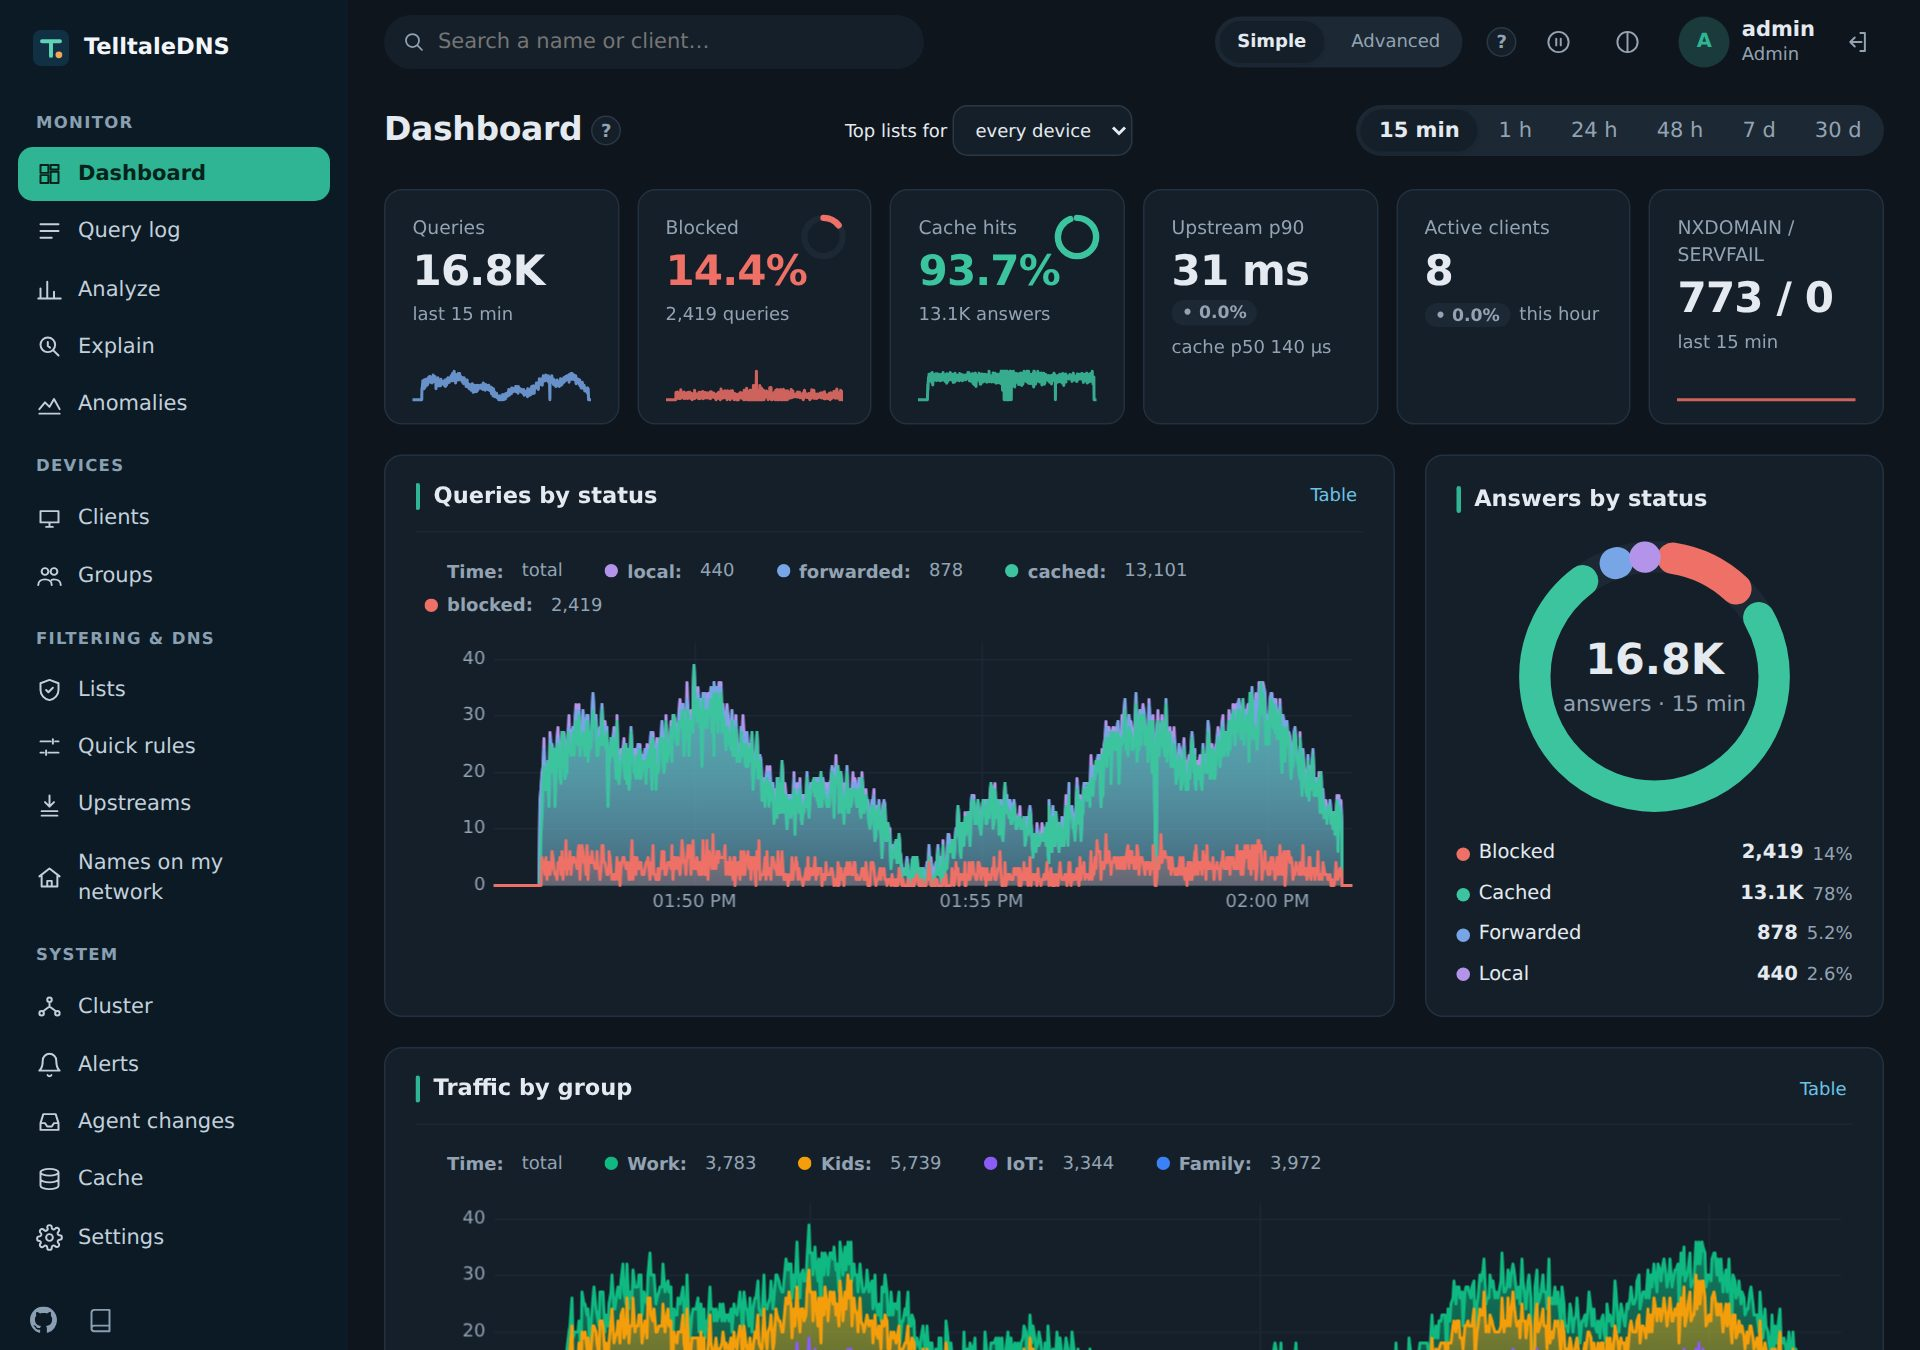
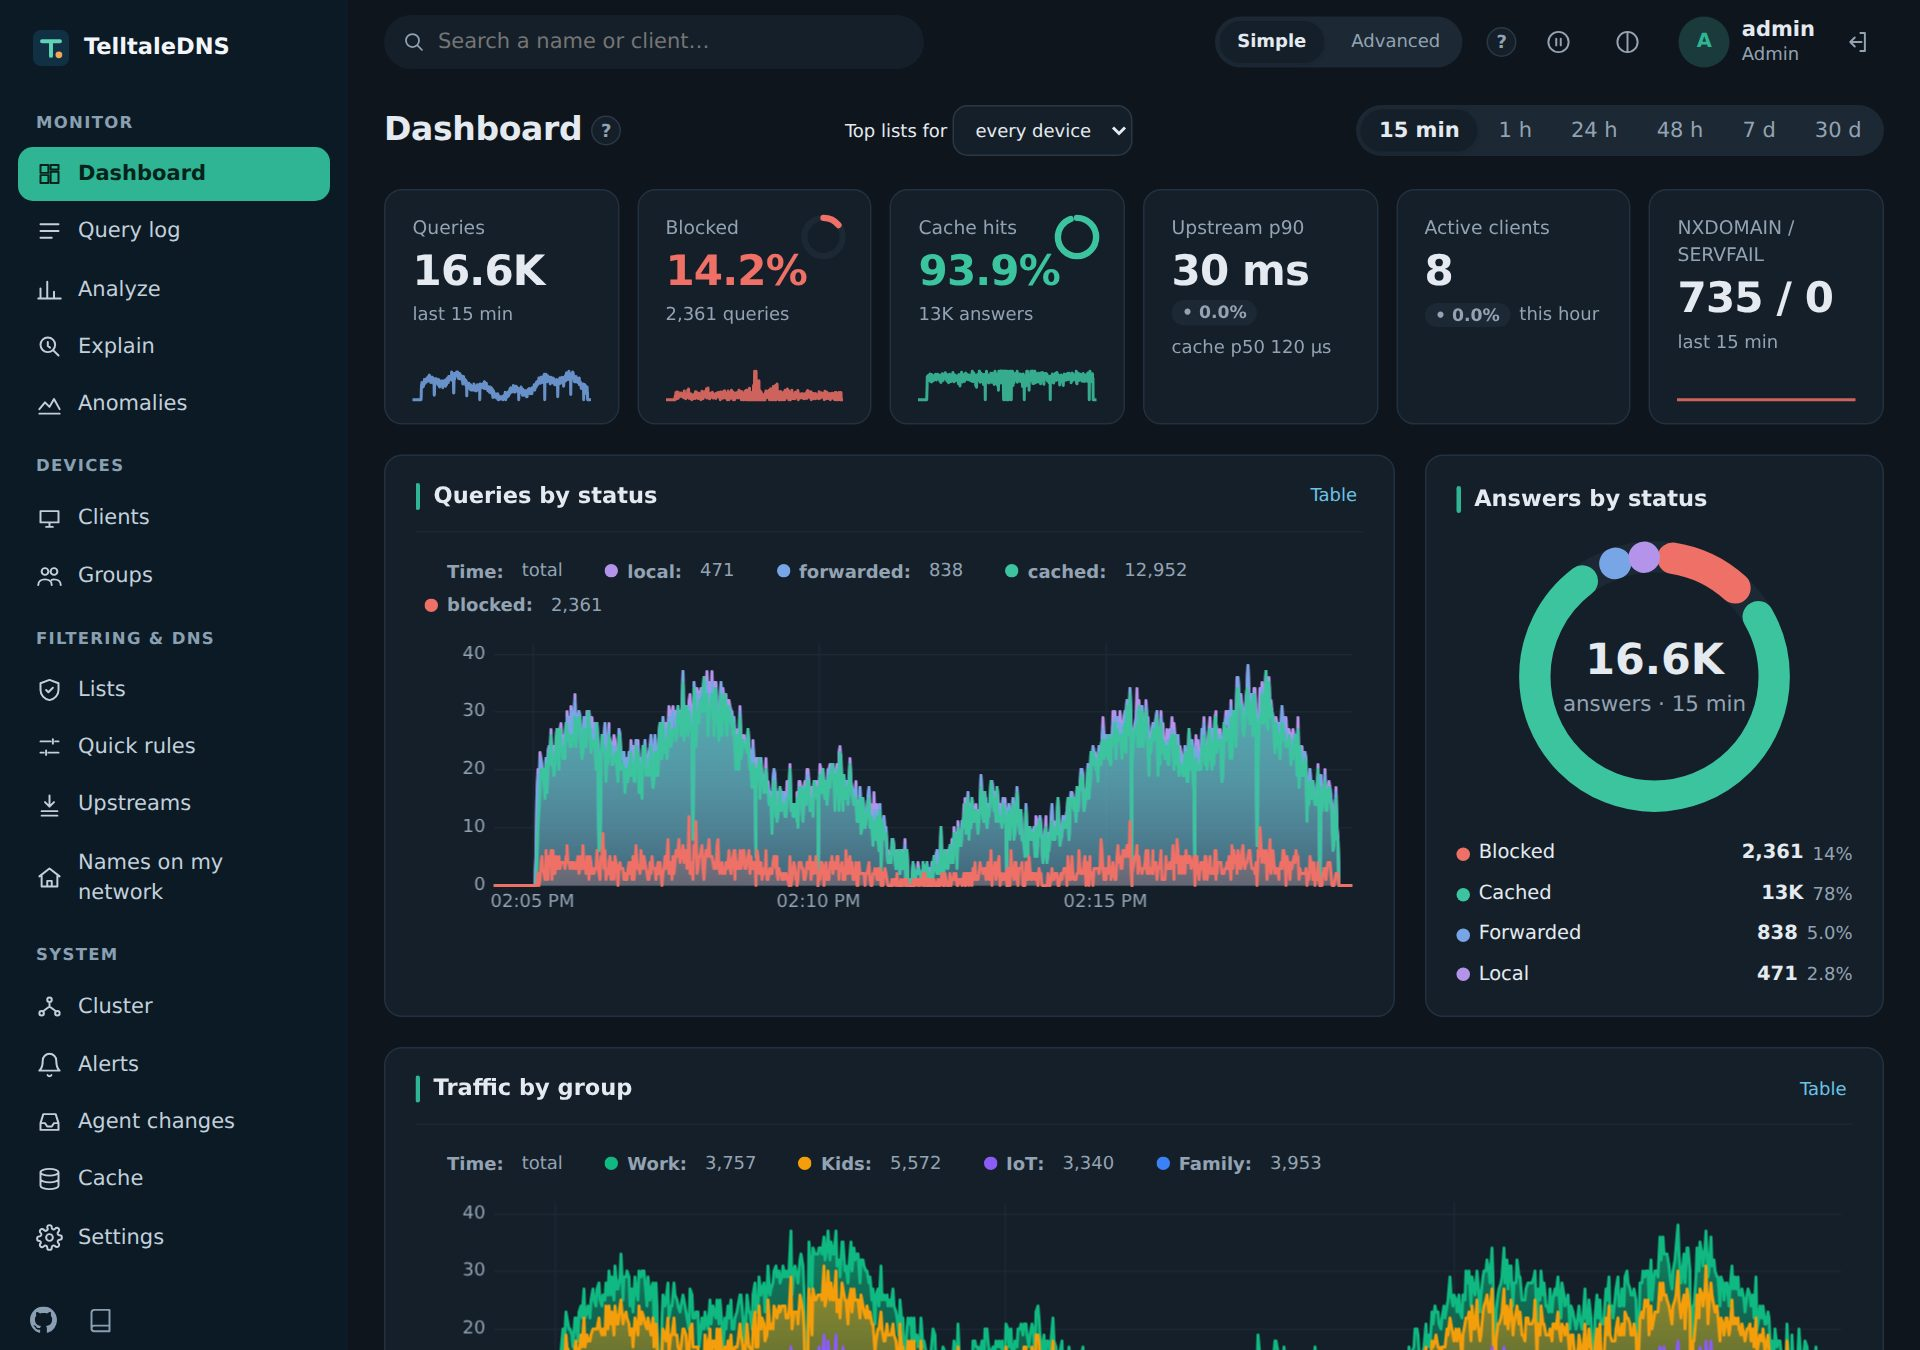
docs(site): dashboard screenshots from a made-up demo network [DOC-002]
- ui/tests/demo: two stub upstreams, a demo config with invented devices
  and groups on loopback addresses, synthetic traffic, and a Playwright
  spec. run.sh writes the README's and the site's dashboard pictures, so
  no real network ever appears in them.
- The e2e screenshot test no longer writes the site's dashboard shots
  (its minutes-old, one-client server made the dashboard look empty).
- The site's dashboard captions say it's a demo network; ui/README.md
  explains the demo and where SHOTS=1 really writes its pictures.

Claude-Session: https://claude.ai/code/session_01VwxbSCqhHCSxjCwuuUqexg

diff --git a/ui/tests/demo/shots.spec.ts b/ui/tests/demo/shots.spec.ts
@@ -1,0 +1,45 @@
+// REQ: DOC-002 — dashboard screenshots for the README and the site, taken on the made-up network
+// of demo.toml after run.sh has sent it synthetic traffic. Not part of the e2e suite.
+import { test, type Browser } from '@playwright/test';
+import { resolve } from 'node:path';
+
+const repo = resolve(import.meta.dirname, '../../..');
+
+async function capture(browser: Browser, theme: 'light' | 'dark', width: number, height: number, scale: number) {
+  const context = await browser.newContext({
+    baseURL: 'http://127.0.0.1:28053',
+    colorScheme: theme,
+    viewport: { width, height },
+    deviceScaleFactor: scale,
+  });
+  const page = await context.newPage();
+  // The demo's devices are on loopback, which reads as masked client IPs (OPS-003): keep that
+  // banner out of the pictures.
+  await page.route('**/api/v1/system/info', async (route) => {
+    const res = await route.fetch();
+    const info = await res.json();
+    delete info.clientIpsMasked;
+    await route.fulfill({ response: res, json: info });
+  });
+  await page.goto('/');
+  await page.getByLabel('Username', { exact: true }).fill('admin');
+  await page.getByLabel('Password', { exact: true }).fill('correct horse battery');
+  await page.getByRole('button', { name: 'Sign in' }).click();
+  await page.getByRole('heading', { name: 'Dashboard' }).waitFor();
+  await page.getByRole('button', { name: '15 min' }).click();
+  await page.waitForTimeout(3000);
+  return { page, context };
+}
+
+for (const theme of ['light', 'dark'] as const) {
+  test(`dashboard ${theme}`, async ({ browser }) => {
+    // The README: sharp on high-density screens.
+    const readme = await capture(browser, theme, 1280, 900, 1.5);
+    await readme.page.screenshot({ path: `${repo}/docs/images/dashboard-${theme}.jpg`, type: 'jpeg', quality: 82 });
+    await readme.context.close();
+    // The site: the same size as its other screenshots (2-shots.spec.ts).
+    const site = await capture(browser, theme, 1280, 860, 1);
+    await site.page.screenshot({ path: `${repo}/site/assets/shots/dashboard-${theme}.jpg`, type: 'jpeg', quality: 80 });
+    await site.context.close();
+  });
+}

diff --git a/site/tour.html b/site/tour.html
@@ -23,7 +23,7 @@
 <section id="see">
   <h2>See what's happening</h2>
   <div class="shots">
-    <figure><img src="assets/shots/dashboard-light.jpg" alt="Dashboard: KPI tiles with their change and sparklines, queries by status, and the sidebar" width="1280" height="860" loading="lazy"><figcaption>Dashboard: queries, blocked share, cache hits, latency, and traffic by group</figcaption></figure>
+    <figure><img src="assets/shots/dashboard-light.jpg" alt="Dashboard: KPI tiles with their change and sparklines, queries by status, and the sidebar" width="1280" height="860" loading="lazy"><figcaption>Dashboard: queries, blocked share, cache hits, latency, and traffic by group (a made-up demo network)</figcaption></figure>
     <figure><img src="assets/shots/dashboard-dark.jpg" alt="Dashboard in the dark theme" width="1280" height="860" loading="lazy"><figcaption>Dashboard (dark theme)</figcaption></figure>
     <figure><img src="assets/shots/queries-light.jpg" alt="Query log with filters" width="1280" height="860" loading="lazy"><figcaption>Query log: every question, filterable, with timings</figcaption></figure>
     <figure><img src="assets/shots/why-light.jpg" alt="Why was this blocked: the list, its line number, and the rule" width="1280" height="860" loading="lazy"><figcaption>"Why?": the list and line behind every decision</figcaption></figure>

diff --git a/site/index.html b/site/index.html
@@ -136,7 +136,7 @@
   <h2>Built into the binary</h2>
   <p class="muted">A dashboard, a searchable query log with a "Why?" on every row, devices and groups, lists, upstreams, local names, and the cluster, in light or dark, on a desktop or a phone. <a href="tour.html">Take the tour →</a></p>
   <div class="shots">
-    <figure><img src="assets/shots/dashboard-light.jpg" alt="Dashboard: KPI tiles with changes and sparklines, and queries by status" width="1280" height="860" loading="lazy"><figcaption>Dashboard</figcaption></figure>
+    <figure><img src="assets/shots/dashboard-light.jpg" alt="Dashboard: KPI tiles with changes and sparklines, and queries by status" width="1280" height="860" loading="lazy"><figcaption>Dashboard (a made-up demo network)</figcaption></figure>
     <figure><img src="assets/shots/queries-dark.jpg" alt="Query log with filters, in the dark theme" width="1280" height="860" loading="lazy"><figcaption>Query log (dark theme)</figcaption></figure>
     <figure><img src="assets/shots/cluster-light.jpg" alt="Cluster page: a live topology of a Kubernetes site and a Pi" width="1280" height="860" loading="lazy"><figcaption>Cluster topology (example data)</figcaption></figure>
   </div>

diff --git a/ui/tests/e2e/2-shots.spec.ts b/ui/tests/e2e/2-shots.spec.ts
@@ -25,16 +25,15 @@ for (const theme of ['light', 'dark'] as const) {
     await page.getByLabel('Username', { exact: true }).fill('admin');
     await page.getByLabel('Password', { exact: true }).fill('correct horse battery');
     await page.getByRole('button', { name: 'Sign in' }).click();
+    // The dashboard's site shots come from the demo network instead (tests/demo/run.sh): this
+    // server is minutes old and has one client, which makes for an empty-looking dashboard.
     for (const [name, path] of [
-      ['dashboard', '/#/'],
       ['queries', '/#/queries'],
       ['lists', '/#/lists'],
       ['settings', '/#/settings?tab=tokens'],
       ['cache', '/#/cache'],
     ]) {
       await page.goto(path);
-      // The test server is minutes old: the 15-minute range shows its traffic.
-      if (name === 'dashboard') await page.getByRole('button', { name: '15 min' }).click();
       await page.waitForTimeout(600);
       await page.screenshot({ path: shot(`${name}-${theme}`), type: 'jpeg', quality: 80 });
     }

diff --git a/ui/tests/demo/playwright.config.ts b/ui/tests/demo/playwright.config.ts
@@ -1,0 +1,9 @@
+import { defineConfig } from '@playwright/test';
+
+// The screenshot demo (run.sh) only: run.sh starts the server, so there is no webServer here.
+export default defineConfig({
+  testDir: '.',
+  workers: 1,
+  reporter: 'line',
+  use: { baseURL: 'http://127.0.0.1:28053' },
+});

diff --git a/ui/tests/demo/traffic.py b/ui/tests/demo/traffic.py
@@ -1,0 +1,68 @@
+#!/usr/bin/env python3
+"""Synthetic traffic for the screenshot demo (run.sh): each made-up device asks its own mix of
+names from its own loopback address, at a rate that rises and falls. 127.0.1.14 is left unnamed
+on purpose, to show how an unknown device looks. usage: traffic.py <seconds>"""
+import math
+import random
+import socket
+import struct
+import sys
+import time
+
+SERVER = ("127.0.0.1", 25353)
+COMMON = ["www.google.com", "www.youtube.com", "i.ytimg.com", "www.apple.com", "github.com",
+          "en.wikipedia.org", "api.spotify.com", "www.netflix.com", "fonts.gstatic.com",
+          "cdn.jsdelivr.net", "www.bbc.co.uk", "news.ycombinator.com", "nas.home.arpa"]
+ADS = ["googleads.g.doubleclick.net", "pagead2.googlesyndication.com", "app-measurement.com",
+       "ads.example.com", "tracker.example.org"]
+DEVICES = {
+    "127.0.1.11": (3.0, COMMON + ["mail.example.com", "maps.example.com"], ADS, 0.12),
+    "127.0.1.14": (1.2, COMMON, ADS, 0.10),
+    "127.0.4.30": (4.0, COMMON + ["slack.example.com", "zoom.example.com", "docs.example.com",
+                                  "login.example.com", "cdn.nx.example"], ["telemetry.example.net"], 0.08),
+    "127.0.2.10": (2.5, ["www.youtube.com", "i.ytimg.com", "kids.example.com", "games.example.com",
+                         "www.roblox.example"], ADS, 0.22),
+    "127.0.2.12": (3.5, ["store.example.com", "cdn.games.example", "voice.example.com",
+                         "update.games.example", "old.nx.example"], ADS, 0.10),
+    "127.0.3.20": (2.0, ["www.netflix.com", "api.tv-vendor.example", "img.tv-vendor.example"],
+                   ["metrics.tv-vendor.example"], 0.35),
+    "127.0.3.21": (0.6, ["api.thermostat.example", "time.example.net"], ["telemetry.example.net"], 0.20),
+    "127.0.3.22": (1.0, ["api.spotify.com", "speaker.example.com", "time.example.net"], [], 0.0),
+}
+
+
+def query(name: str) -> bytes:
+    q = struct.pack(">HHHHHH", random.randrange(65536), 0x0100, 1, 0, 0, 0)
+    for label in name.split("."):
+        q += bytes([len(label)]) + label.encode()
+    return q + b"\x00" + struct.pack(">HH", 1, 1)
+
+
+socks = {}
+for ip in DEVICES:
+    s = socket.socket(socket.AF_INET, socket.SOCK_DGRAM)
+    s.bind((ip, 0))
+    s.setblocking(False)
+    socks[ip] = s
+
+end = time.time() + float(sys.argv[1])
+t0 = time.time()
+sent = 0
+while time.time() < end:
+    t = time.time() - t0
+    # A daily-looking swell: busier, then quieter, then busier again.
+    level = 1.0 + 0.6 * math.sin(t / 90.0) + 0.3 * math.sin(t / 23.0)
+    for ip, (rate, names, ads, ad_share) in DEVICES.items():
+        n = rate * level * 0.25
+        k = int(n) + (1 if random.random() < n - int(n) else 0)
+        for _ in range(k):
+            name = random.choice(ads) if ads and random.random() < ad_share else random.choice(names)
+            socks[ip].sendto(query(name), SERVER)
+            sent += 1
+        try:
+            while True:
+                socks[ip].recv(4096)
+        except BlockingIOError:
+            pass
+    time.sleep(0.25)
+print("sent", sent)

diff --git a/ui/tests/demo/stub.py b/ui/tests/demo/stub.py
@@ -1,0 +1,53 @@
+#!/usr/bin/env python3
+"""Stub upstreams for the screenshot demo (run.sh): answer every A query with a TEST-NET address
+(RFC 5737) after a small random delay; names under nx.example get NXDOMAIN, other types an empty
+answer. usage: stub.py <port> <min_ms> <max_ms>"""
+import asyncio
+import random
+import sys
+
+port, lo, hi = int(sys.argv[1]), int(sys.argv[2]), int(sys.argv[3])
+
+
+def answer(q: bytes) -> bytes | None:
+    if len(q) < 17:
+        return None
+    end = 12
+    labels = []
+    while end < len(q) and q[end] != 0:
+        n = q[end]
+        labels.append(q[end + 1:end + 1 + n].decode("ascii", "replace").lower())
+        end += n + 1
+    end += 5
+    if end > len(q):
+        return None
+    name = ".".join(labels)
+    qtype = int.from_bytes(q[end - 4:end - 2], "big")
+    nx = name.endswith("nx.example")
+    flags = b"\x81\x83" if nx else b"\x81\x80"
+    if nx or qtype != 1:
+        return q[:2] + flags + b"\x00\x01\x00\x00\x00\x00\x00\x00" + q[12:end]
+    ip = bytes([198, 51, 100, (sum(name.encode()) % 250) + 1])
+    rr = b"\xc0\x0c\x00\x01\x00\x01\x00\x00\x00\x3c\x00\x04" + ip
+    return q[:2] + flags + b"\x00\x01\x00\x01\x00\x00\x00\x00" + q[12:end] + rr
+
+
+class Proto(asyncio.DatagramProtocol):
+    def connection_made(self, t):
+        self.t = t
+
+    def datagram_received(self, data, addr):
+        r = answer(data)
+        if r is not None:
+            asyncio.get_running_loop().call_later(
+                random.uniform(lo, hi) / 1000, self.t.sendto, r, addr
+            )
+
+
+async def main():
+    loop = asyncio.get_running_loop()
+    await loop.create_datagram_endpoint(Proto, local_addr=("127.0.0.1", port))
+    await asyncio.Event().wait()
+
+
+asyncio.run(main())

diff --git a/ui/README.md b/ui/README.md
@@ -24,7 +24,20 @@ Then rebuild the binary (`cargo build -p telltale`) to embed `dist/`. A binary b
 cargo build -p telltale && npm run build
 npx playwright install --with-deps --only-shell chromium
 npm run test:e2e             # starts the real binary (tests/e2e/server.mjs) on 127.0.0.1:18054
-SHOTS=1 npm run test:e2e     # also saves screenshots to test-results/shots/
+SHOTS=1 npm run test:e2e     # also refreshes the site's screenshots (../site/assets/shots/)
+                             # and saves every page to .shots/ for design review
+```
+
+## Dashboard screenshots
+
+The README's and the site's dashboard pictures come from a made-up home network, so no real
+network ever shows up in them. `tests/demo/run.sh` starts two stub upstreams and a fresh server
+with `tests/demo/demo.toml`, sends about 14 minutes of synthetic traffic from invented devices,
+and then writes `../docs/images/dashboard-*.jpg` and `../site/assets/shots/dashboard-*.jpg`:
+
+```sh
+npm run build && cargo build -p telltale     # the binary embeds the UI
+tests/demo/run.sh            # or `tests/demo/run.sh 60` for a quick look
 ```
 
 ## Rules
